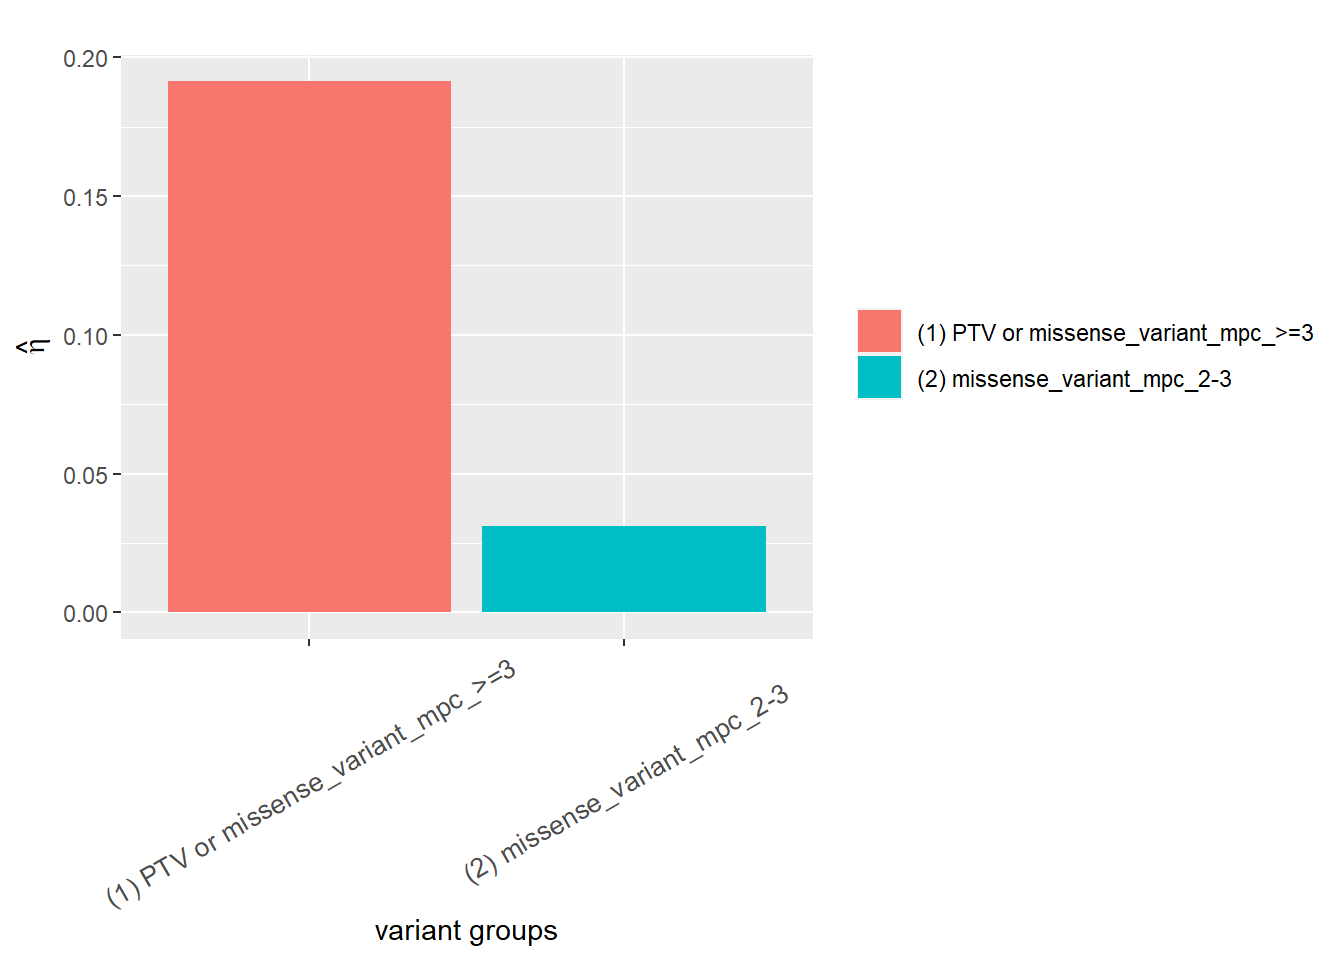
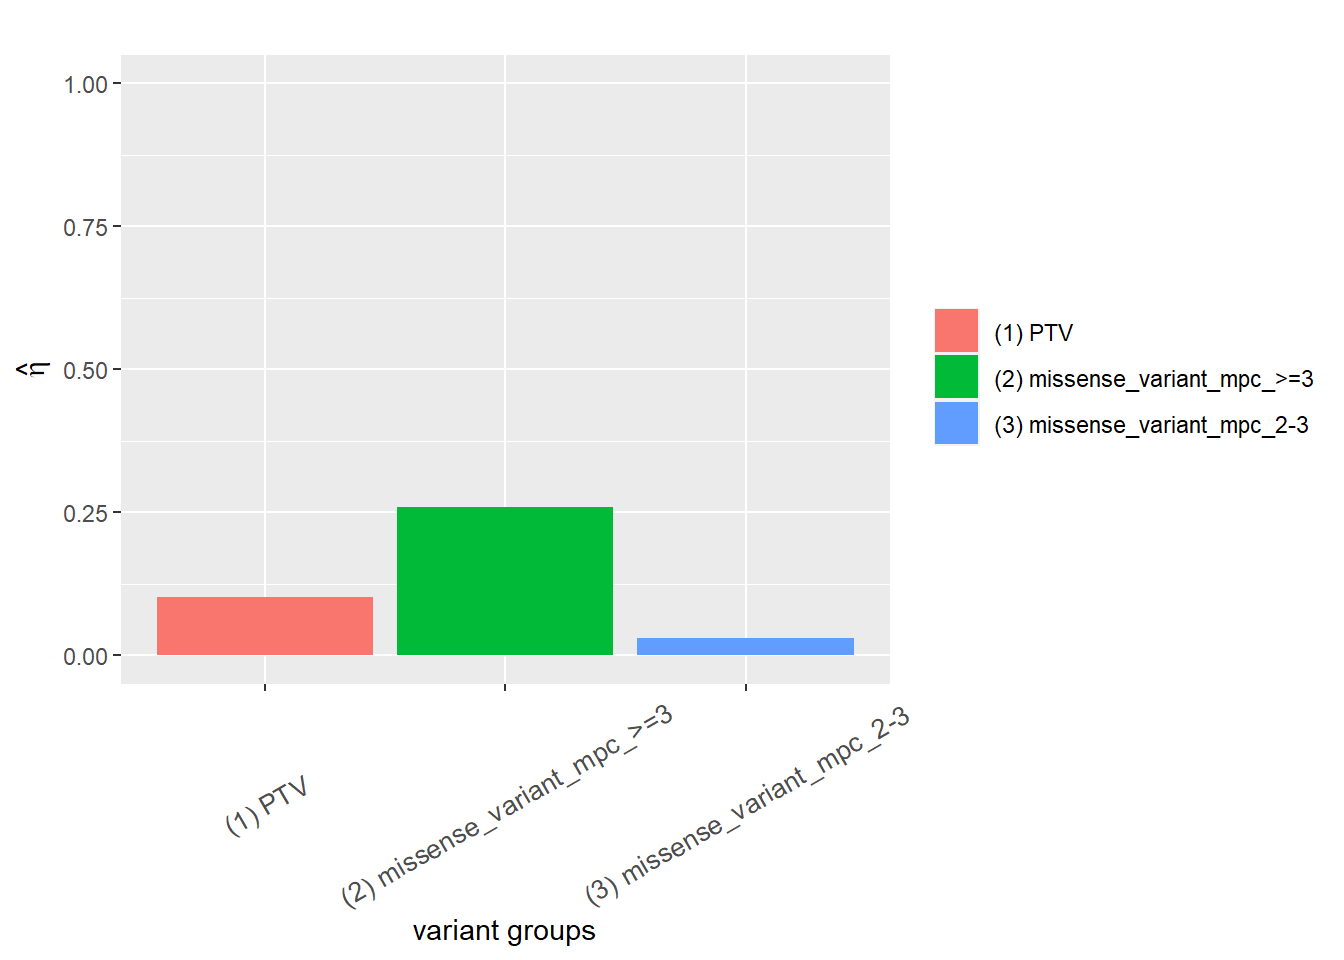
11/8/2023

diff --git a/docs/SCHEMA_analysis.html b/docs/SCHEMA_analysis.html
@@ -404,7 +404,7 @@ aria-hidden="true"></span> </a>
 <div class="tab-content">
 <div id="summary" class="tab-pane fade in active">
 <p>
-<strong>Last updated:</strong> 2023-10-27
+<strong>Last updated:</strong> 2023-11-08
 </p>
 <p>
 <strong>Checks:</strong> <span
@@ -526,6 +526,12 @@ unnamed-chunk-10
 unnamed-chunk-11
 </li>
 <li>
+unnamed-chunk-12
+</li>
+<li>
+unnamed-chunk-13
+</li>
+<li>
 unnamed-chunk-2
 </li>
 <li>
@@ -576,15 +582,15 @@ project makes it easier to run your code on other machines.</p>
 <div class="panel panel-default">
 <div class="panel-heading">
 <p class="panel-title">
-<a data-toggle="collapse" data-parent="#workflowr-checks" href="#strongRepositoryversionstrongahrefhttpsgithubcomhan16MIRAGEapplicationtree3cc74ef72beeef9782eaa6adbfb4d7245ba9e512targetblank3cc74efa">
+<a data-toggle="collapse" data-parent="#workflowr-checks" href="#strongRepositoryversionstrongahrefhttpsgithubcomhan16MIRAGEapplicationtree80ce02aaa06b349179bfe484e42a96f3ac547244targetblank80ce02aa">
 <span class="glyphicon glyphicon-ok text-success"
 aria-hidden="true"></span> <strong>Repository version:</strong>
-<a href="https://github.com/han16/MIRAGE_application/tree/3cc74ef72beeef9782eaa6adbfb4d7245ba9e512" target="_blank">3cc74ef</a>
+<a href="https://github.com/han16/MIRAGE_application/tree/80ce02aaa06b349179bfe484e42a96f3ac547244" target="_blank">80ce02a</a>
 </a>
 </p>
 </div>
 <div
[2 lines of base64/hex data omitted]
 class="panel-collapse collapse">
 <div class="panel-body">
 <p>
@@ -594,7 +600,7 @@ reproducibility.
 </p>
 <p>
 The results in this page were generated with repository version
-<a href="https://github.com/han16/MIRAGE_application/tree/3cc74ef72beeef9782eaa6adbfb4d7245ba9e512" target="_blank">3cc74ef</a>.
+<a href="https://github.com/han16/MIRAGE_application/tree/80ce02aaa06b349179bfe484e42a96f3ac547244" target="_blank">80ce02a</a>.
 See the <em>Past versions</em> tab to see a history of the changes made
 to the R Markdown and HTML files.
 </p>
@@ -658,6 +664,108 @@ Message
 </tr>
 </thead>
 <tbody>
+<tr>
+<td>
+Rmd
+</td>
+<td>
+<a href="https://github.com/han16/MIRAGE_application/blob/80ce02aaa06b349179bfe484e42a96f3ac547244/analysis/SCHEMA_analysis.Rmd" target="_blank">80ce02a</a>
+</td>
+<td>
+han
+</td>
+<td>
+2023-11-06
+</td>
+<td>
+11/6/2023
+</td>
+</tr>
+<tr>
+<td>
+Rmd
+</td>
+<td>
+<a href="https://github.com/han16/MIRAGE_application/blob/eff856a03d9fed606be2595235e178e06d854670/analysis/SCHEMA_analysis.Rmd" target="_blank">eff856a</a>
+</td>
+<td>
+han
+</td>
+<td>
+2023-11-06
+</td>
+<td>
+11/6/2023
+</td>
+</tr>
+<tr>
+<td>
+Rmd
+</td>
+<td>
+<a href="https://github.com/han16/MIRAGE_application/blob/1b26dddd19c910afbe9aedc58dc6f5642e5d7b89/analysis/SCHEMA_analysis.Rmd" target="_blank">1b26ddd</a>
+</td>
+<td>
+han
+</td>
+<td>
+2023-11-01
+</td>
+<td>
+11/1/2023
+</td>
+</tr>
+<tr>
+<td>
+Rmd
+</td>
+<td>
+<a href="https://github.com/han16/MIRAGE_application/blob/b5b0e841c0b65b1d22fec65b22dac576f7ab77a1/analysis/SCHEMA_analysis.Rmd" target="_blank">b5b0e84</a>
+</td>
+<td>
+han
+</td>
+<td>
+2023-10-27
+</td>
+<td>
+10/27/2023
+</td>
+</tr>
+<tr>
+<td>
+Rmd
+</td>
+<td>
+<a href="https://github.com/han16/MIRAGE_application/blob/724cfe299ab4b1e14e07a45d4779b0df5f5e6b9b/analysis/SCHEMA_analysis.Rmd" target="_blank">724cfe2</a>
+</td>
+<td>
+han
+</td>
+<td>
+2023-10-27
+</td>
+<td>
+10/27/2023
+</td>
+</tr>
+<tr>
+<td>
+html
+</td>
+<td>
+<a href="https://rawcdn.githack.com/han16/MIRAGE_application/724cfe299ab4b1e14e07a45d4779b0df5f5e6b9b/docs/SCHEMA_analysis.html" target="_blank">724cfe2</a>
+</td>
+<td>
+han
+</td>
+<td>
+2023-10-27
+</td>
+<td>
+10/27/2023
+</td>
+</tr>
 <tr>
 <td>
 Rmd
@@ -1098,20 +1206,104 @@ GPC_genomes_AMR           2279    2939 1.3763058 1.2993398 1.4578224</code></pre
 <div id="run-mirage-on-meta-case-control-sample-genome-wide"
 class="section level2">
 <h2>Run MIRAGE on meta case control sample genome-wide</h2>
+<div id="syn-mutations-only" class="section level3">
+<h3>syn mutations only</h3>
+<div class="datatables html-widget html-fill-item-overflow-hidden html-fill-item" id="htmlwidget-9eceb20dc2a931752ae4" style="width:100%;height:auto;"></div>
+<script type="application/json" data-for="htmlwidget-9eceb20dc2a931752ae4">{"x":{"filter":"none","vertical":false,"extensions":["Buttons"],"data":[["1","2"],["delta:proportion of risk genes","syn"],[0.0003,0.001],[1,1]],"container":"<table class=\"display\">\n  <thead>\n    <tr>\n      <th> <\/th>\n      <th>variant_groups<\/th>\n      <th>parameter_estimate<\/th>\n      <th>p_value<\/th>\n    <\/tr>\n  <\/thead>\n<\/table>","options":{"dom":"Blfrtip","buttons":["copy","csv","excel","pdf","print"],"lengthMenu":[[10,25,50,-1],["10","25","50","All"]],"columnDefs":[{"className":"dt-right","targets":[2,3]},{"orderable":false,"targets":0}],"order":[],"autoWidth":false,"orderClasses":false}},"evals":[],"jsHooks":[]}</script>
+<p><img src="figure/SCHEMA_analysis.Rmd/unnamed-chunk-9-2.png" width="672" style="display: block; margin: auto;" /></p>
+<p>
+<button type="button" class="btn btn-default btn-xs btn-workflowr btn-workflowr-fig" data-toggle="collapse" data-target="#fig-unnamed-chunk-9-2">
+Past versions of unnamed-chunk-9-2.png
+</button>
+</p>
+<div id="fig-unnamed-chunk-9-2" class="collapse">
+<div class="table-responsive">
+<table class="table table-condensed table-hover">
+<thead>
+<tr>
+<th>
+Version
+</th>
+<th>
+Author
+</th>
+<th>
+Date
+</th>
+</tr>
+</thead>
+<tbody>
+<tr>
+<td>
+<a href="https://github.com/han16/MIRAGE_application/blob/724cfe299ab4b1e14e07a45d4779b0df5f5e6b9b/docs/figure/SCHEMA_analysis.Rmd/unnamed-chunk-9-2.png" target="_blank">724cfe2</a>
+</td>
+<td>
+han
+</td>
+<td>
+2023-10-27
+</td>
+</tr>
+</tbody>
+</table>
+</div>
+</div>
+<ul>
+<li>use filter <code>No.contr-No.case&lt;2</code> filtering out variants
+with more alleles in cases than in control</li>
+</ul>
+</div>
 <div id="estimate-both-delta-and-etas" class="section level3">
 <h3>estimate both <span class="math inline">\(\delta\)</span> and <span
 class="math inline">\(\eta&#39;s\)</span></h3>
 <div id="variant-groups" class="section level4">
 <h4>3 variant groups</h4>
-<div class="datatables html-widget html-fill-item-overflow-hidden html-fill-item" id="htmlwidget-9eceb20dc2a931752ae4" style="width:100%;height:auto;"></div>
-<script type="application/json" data-for="htmlwidget-9eceb20dc2a931752ae4">{"x":{"filter":"none","vertical":false,"extensions":["Buttons"],"data":[["1","2","3","4"],["delta:proportion of risk genes","PTV","missense_variant_mpc_&gt;=3","missense_variant_mpc_2-3"],[0.5607,0.1013,0.2595,0.0301],["&lt;1e-10","&lt;1e-10","2e-10","1"]],"container":"<table class=\"display\">\n  <thead>\n    <tr>\n      <th> <\/th>\n      <th>variant_groups<\/th>\n      <th>parameter_estimate<\/th>\n      <th>p_value<\/th>\n    <\/tr>\n  <\/thead>\n<\/table>","options":{"dom":"Blfrtip","buttons":["copy","csv","excel","pdf","print"],"lengthMenu":[[10,25,50,-1],["10","25","50","All"]],"columnDefs":[{"className":"dt-right","targets":2},{"orderable":false,"targets":0}],"order":[],"autoWidth":false,"orderClasses":false}},"evals":[],"jsHooks":[]}</script>
-<p><img src="figure/SCHEMA_analysis.Rmd/unnamed-chunk-9-2.png" width="672" style="display: block; margin: auto;" /></p>
+<div class="datatables html-widget html-fill-item-overflow-hidden html-fill-item" id="htmlwidget-f30d7598595affc4f25a" style="width:100%;height:auto;"></div>
+<script type="application/json" data-for="htmlwidget-f30d7598595affc4f25a">{"x":{"filter":"none","vertical":false,"extensions":["Buttons"],"data":[["1","2","3","4"],["delta:proportion of risk genes","PTV","missense_variant_mpc_&gt;=3","missense_variant_mpc_2-3"],[0.5607,0.1013,0.2595,0.0301],["&lt;1e-10","&lt;1e-10","2e-10","1"]],"container":"<table class=\"display\">\n  <thead>\n    <tr>\n      <th> <\/th>\n      <th>variant_groups<\/th>\n      <th>parameter_estimate<\/th>\n      <th>p_value<\/th>\n    <\/tr>\n  <\/thead>\n<\/table>","options":{"dom":"Blfrtip","buttons":["copy","csv","excel","pdf","print"],"lengthMenu":[[10,25,50,-1],["10","25","50","All"]],"columnDefs":[{"className":"dt-right","targets":2},{"orderable":false,"targets":0}],"order":[],"autoWidth":false,"orderClasses":false}},"evals":[],"jsHooks":[]}</script>
+<p><img src="figure/SCHEMA_analysis.Rmd/unnamed-chunk-11-2.png" width="672" style="display: block; margin: auto;" /></p>
+<p>
+<button type="button" class="btn btn-default btn-xs btn-workflowr btn-workflowr-fig" data-toggle="collapse" data-target="#fig-unnamed-chunk-11-2">
+Past versions of unnamed-chunk-11-2.png
+</button>
+</p>
+<div id="fig-unnamed-chunk-11-2" class="collapse">
+<div class="table-responsive">
+<table class="table table-condensed table-hover">
+<thead>
+<tr>
+<th>
+Version
+</th>
+<th>
+Author
+</th>
+<th>
+Date
+</th>
+</tr>
+</thead>
+<tbody>
+<tr>
+<td>
+<a href="https://github.com/han16/MIRAGE_application/blob/724cfe299ab4b1e14e07a45d4779b0df5f5e6b9b/docs/figure/SCHEMA_analysis.Rmd/unnamed-chunk-11-2.png" target="_blank">724cfe2</a>
+</td>
+<td>
+han
+</td>
+<td>
+2023-10-27
+</td>
+</tr>
+</tbody>
+</table>
+</div>
+</div>
 </div>
 <div id="variant-groups-1" class="section level4">
 <h4>2 variant groups</h4>
-<div class="datatables html-widget html-fill-item-overflow-hidden html-fill-item" id="htmlwidget-9eceb20dc2a931752ae4" style="width:100%;height:auto;"></div>
-<script type="application/json" data-for="htmlwidget-9eceb20dc2a931752ae4">{"x":{"filter":"none","vertical":false,"extensions":["Buttons"],"data":[["1","2","3"],["delta:proportion of risk genes","PTV or missense_variant_mpc_&gt;=3","missense_variant_mpc_2-3"],[0.5747,0.1914,0.031],["&lt;1e-10","&lt;1e-10","1"]],"container":"<table class=\"display\">\n  <thead>\n    <tr>\n      <th> <\/th>\n      <th>variant_groups<\/th>\n      <th>parameter_estimate<\/th>\n      <th>p_value<\/th>\n    <\/tr>\n  <\/thead>\n<\/table>","options":{"dom":"Blfrtip","buttons":["copy","csv","excel","pdf","print"],"lengthMenu":[[10,25,50,-1],["10","25","50","All"]],"columnDefs":[{"className":"dt-right","targets":2},{"orderable":false,"targets":0}],"order":[],"autoWidth":false,"orderClasses":false}},"evals":[],"jsHooks":[]}</script>
-<p><img src="figure/SCHEMA_analysis.Rmd/unnamed-chunk-11-2.png" width="672" style="display: block; margin: auto;" /></p>
+<div class="datatables html-widget html-fill-item-overflow-hidden html-fill-item" id="htmlwidget-b85bf888dc62471906a9" style="width:100%;height:auto;"></div>
+<script type="application/json" data-for="htmlwidget-b85bf888dc62471906a9">{"x":{"filter":"none","vertical":false,"extensions":["Buttons"],"data":[["1","2","3"],["delta:proportion of risk genes","PTV or missense_variant_mpc_&gt;=3","missense_variant_mpc_2-3"],[0.5747,0.1914,0.031],["&lt;1e-10","&lt;1e-10","1"]],"container":"<table class=\"display\">\n  <thead>\n    <tr>\n      <th> <\/th>\n      <th>variant_groups<\/th>\n      <th>parameter_estimate<\/th>\n      <th>p_value<\/th>\n    <\/tr>\n  <\/thead>\n<\/table>","options":{"dom":"Blfrtip","buttons":["copy","csv","excel","pdf","print"],"lengthMenu":[[10,25,50,-1],["10","25","50","All"]],"columnDefs":[{"className":"dt-right","targets":2},{"orderable":false,"targets":0}],"order":[],"autoWidth":false,"orderClasses":false}},"evals":[],"jsHooks":[]}</script>
+<p><img src="figure/SCHEMA_analysis.Rmd/unnamed-chunk-13-2.png" width="672" style="display: block; margin: auto;" /></p>
 <br>
 <p>
 <button type="button" class="btn btn-default btn-workflowr btn-workflowr-sessioninfo" data-toggle="collapse" data-target="#workflowr-sessioninfo" style="display: block;">
